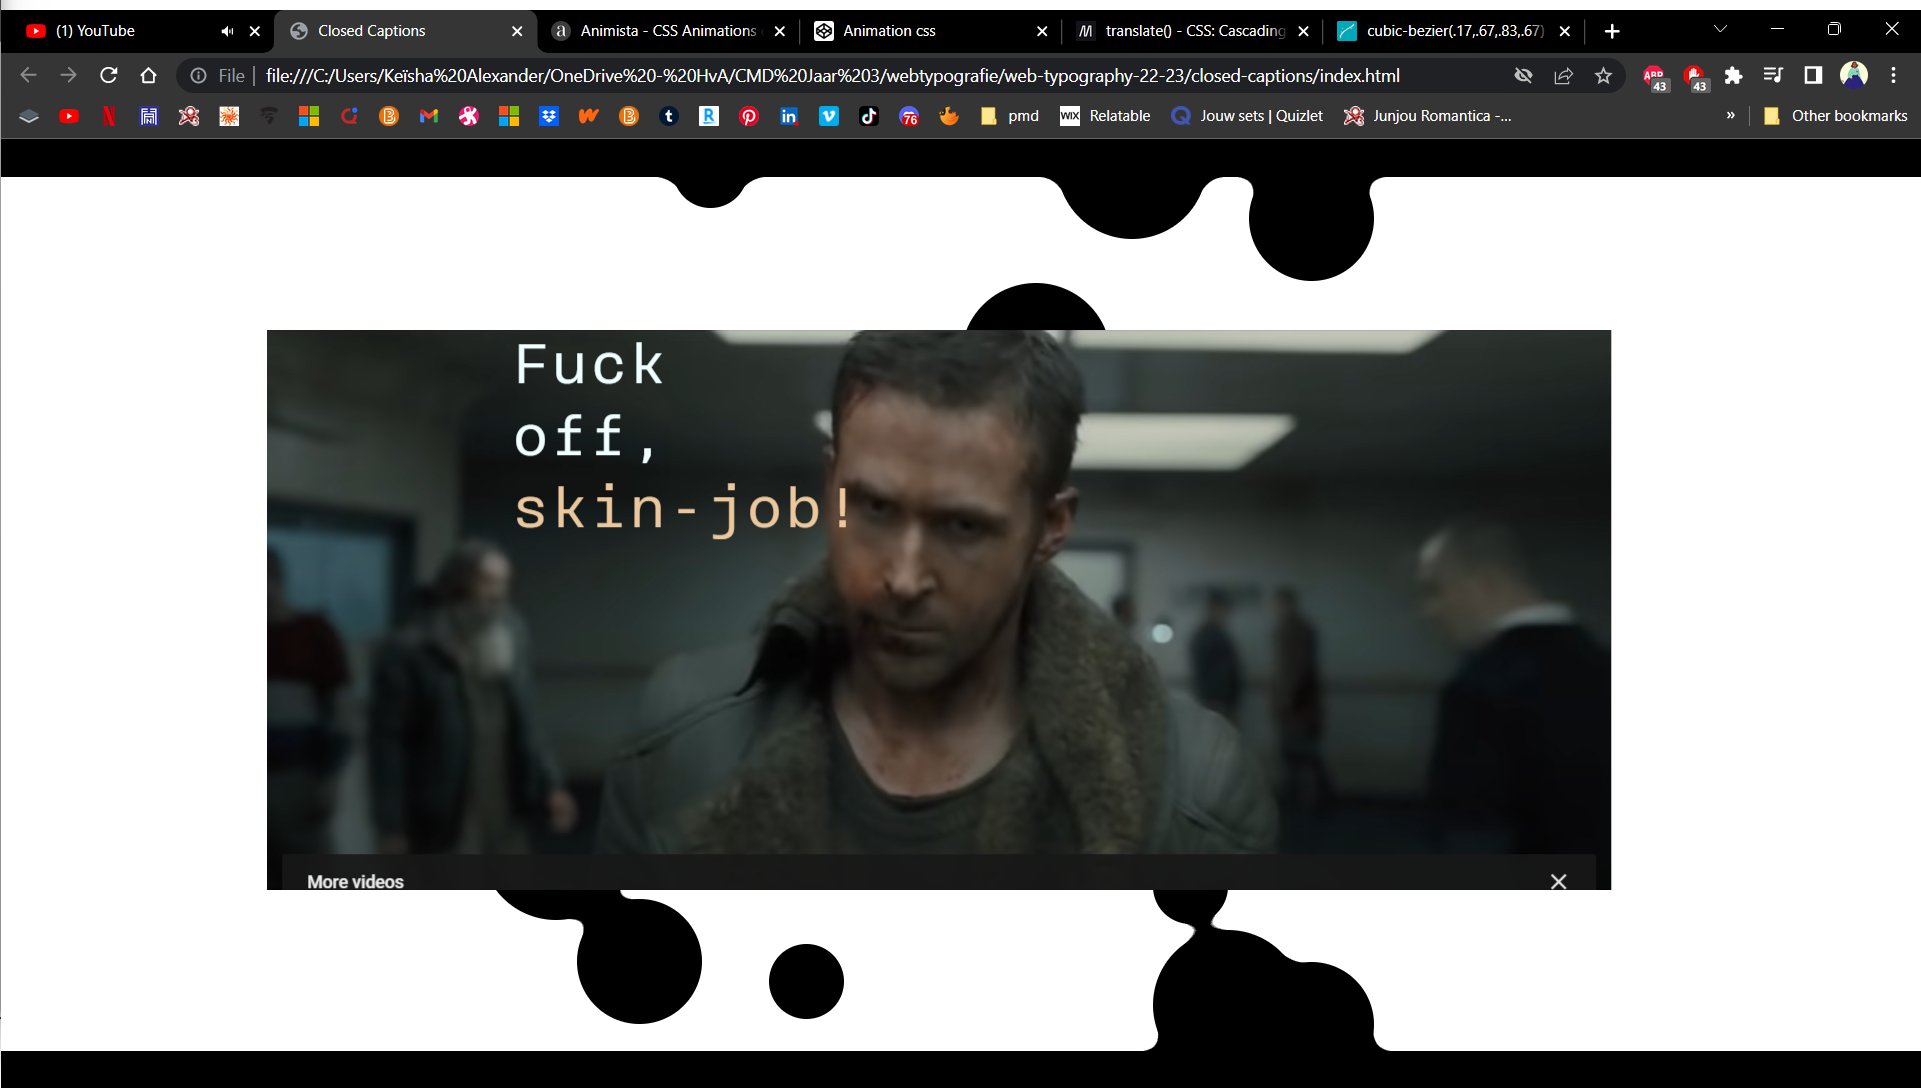
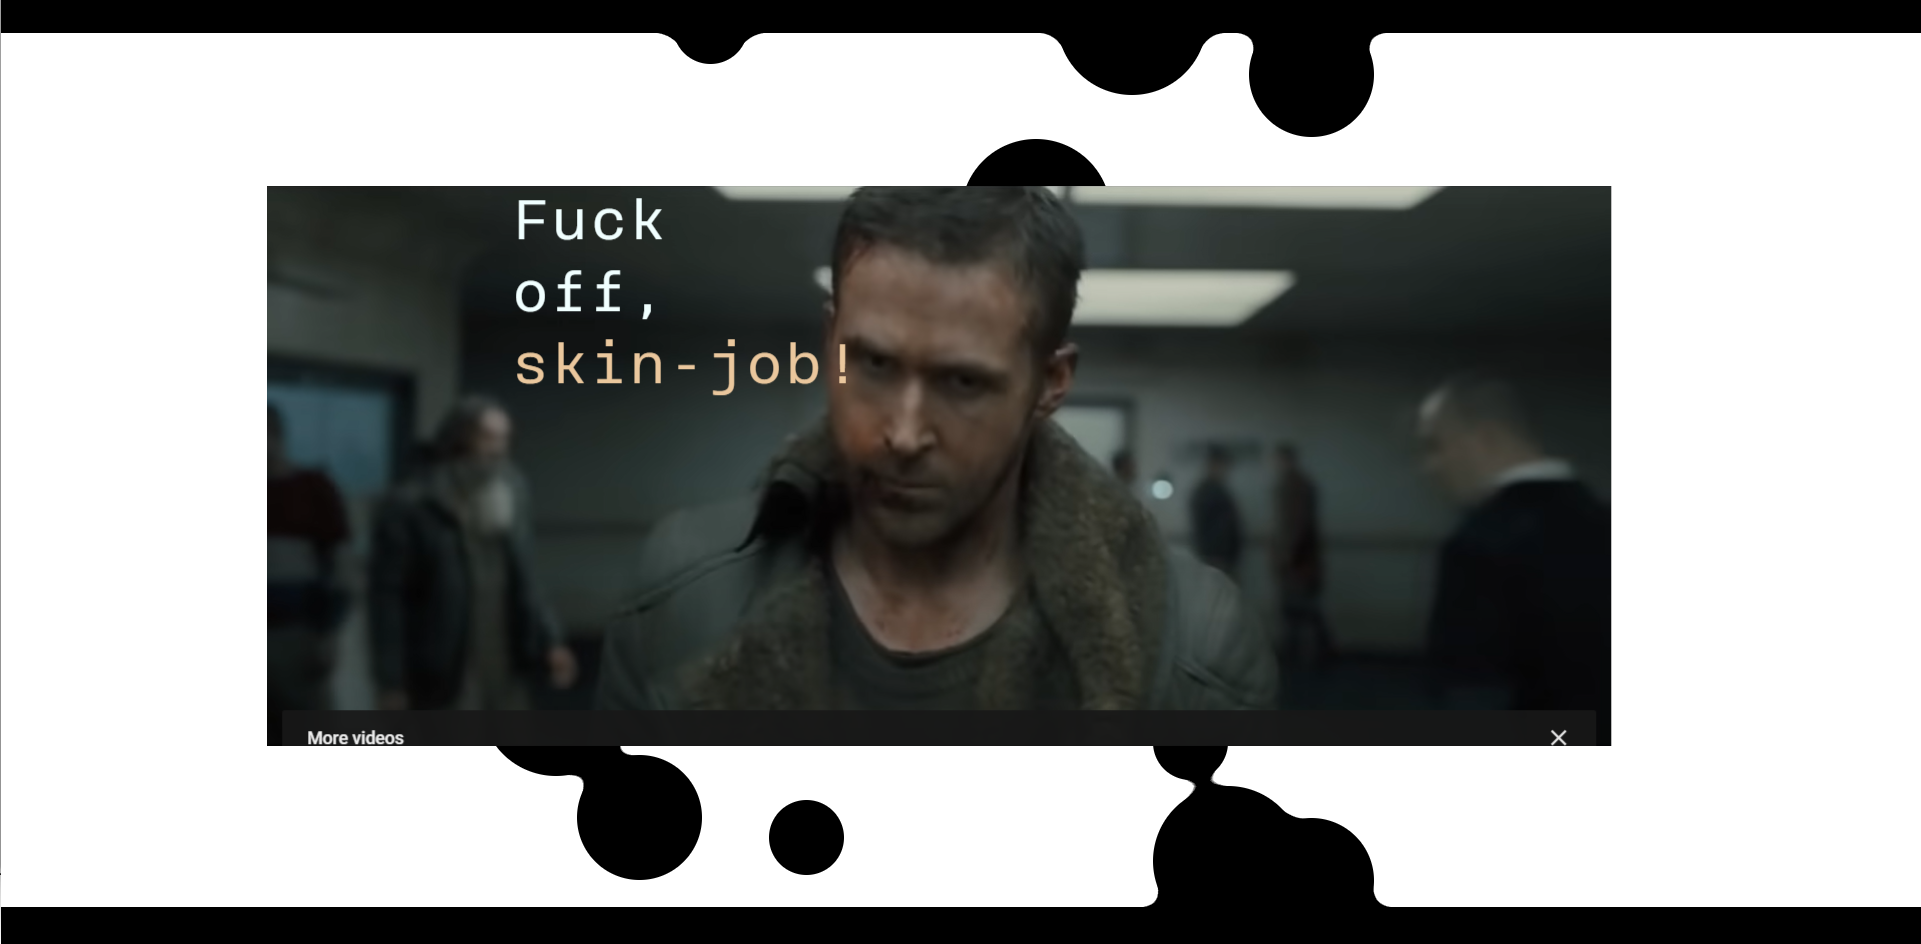
Readme documentation

diff --git a/closed-captions/css.css b/closed-captions/css.css
@@ -220,7 +220,7 @@ animation-iteration-count: 1;
 
 /* Fuck off Skin Job met throw animatie*/
 .p6.on {
-font-family: "Brenner Mono Light";
+font-family: "Brenner Sans Light";
 	font-size:1.2em;
 	position: absolute;
 	
@@ -317,6 +317,30 @@ font-size: 1.3em;
     0 0 92px #4ee667,
     0 0 102px #4ee667,
     0 0 151px #4ee667;
+}
+.voice6 {
+animation: text-shaking-dread  .5s ease-in-out infinite;
+}
+
+@keyframes text-shaking-dread {
+	 0% { transform: translateX(0) }
+ 25% { transform: translateX(5px) }
+ 50% { transform: translateX(-5px) }
+ 75% { transform: translateX(5px) }
+ 100% { transform: translateX(0);  }
+}
+
+.voice5.p79 {
+  color:#8e1800;
+  text-shadow:
+    0 0 7px #fff,
+    0 0 10px #fff,
+    0 0 21px #ff5555,
+    0 0 42px #ff5555,
+    0 0 82px #ff5555,
+    0 0 92px #ff5555,
+    0 0 102px #ff5555,
+    0 0 151px #ff5555;
 }
 /* **********************************************
 Sounds.

diff --git a/README.md b/README.md
@@ -1,4 +1,4 @@
-# Web Typography, 2020/2021
+# Web Typografie
 ## Inleiding
 Voor web typografie moeten we een filmfragment vormgeven voor mensen die doof zijn geboren. De filmfragment gaat over de film blade runner. Blade runner is een science fiction fllm. Zonder geluid kun je aangegeven dat het gaat over een science fiction film door het  sombere sfeer, maar het is saai en je kan niks begrijpen.  Met geluid kun je  hoor je een verschillende geluiden die het fragment spannender maakt. 
 
@@ -67,10 +67,14 @@ Tijdens de film zag ik dat hij geen oogcontact houdt met de lapd officiers. Hij 
 
 
 ### Persoon die vloekte
-Deze scene vindt plaats in de eerste fragment. Hij is een de lapd officier die tegen de hoofdpersonage vloekt. De manier hoe hij dit zegt is agresief en subtiel. Het geef aan de haat tegen de androids.
+Deze scene vindt plaats in de eerste fragment. Hij is een de lapd officier die tegen de hoofdpersonage vloekt. De manier hoe hij dit zegt is agresief en subtiel. Het geef aan de haat tegen de androids. Voor hem heb ik de font Brenner sans light gebruikt. Met dit lettertype kan ik aangeven dat dit karakter een "echte" mens is en de zachte manier hoe hij het woord naar de personage zegt.
+
+Met CSS kon ik het  woord laten bewegen. Het woord wordt gegooid naar de hoofdpersonage toe. Dan lijkt het aggresief maar ook nog op een zachte manier.
 
 ## Filmfragment 1
-Het film begint met de  personage in zijn voertuig te draaien. Dus ik wil de video meedraaien. Terwijl in de achtergrond iets vloeibaar naar beneden valt. Het geef een gevoel van weirdness aan. De tekst wil ik gaan vormgeven op Basis van emoties. 
+<img src="images/liquid-v2.png">
+
+Het film begint met de  personage in zijn voertuig te draaienns. Dus ik wil de video meedraaien. Terwijl in de achtergrond iets vloeibaar naar beneden valt. Het geef een gevoel van weirdness aan. De tekst wil ik gaan vormgeven op Basis van emoties. 
 Commanderend voice krijgt een monospaced font
 Hoofdpersoon stem krijgt monospaced font maar klein
 Hij is wel bio-engineered als een biologisch mens maar voelt zich meer human. En hij praat niet zo hard.
